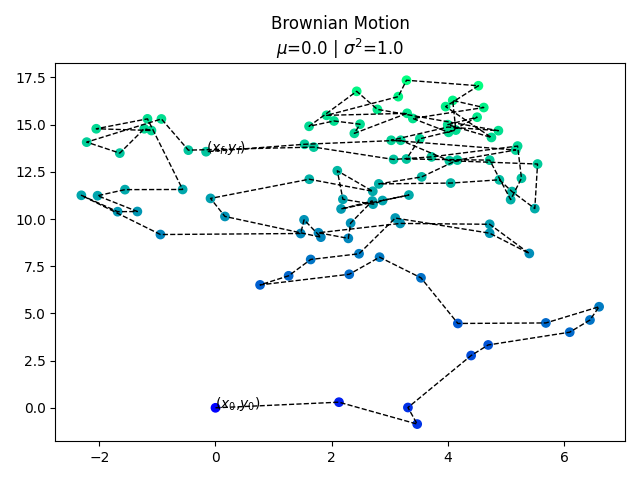
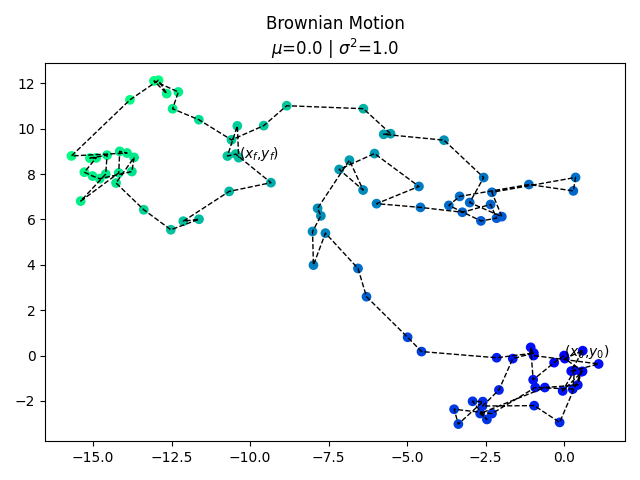
Update wiener.py

diff --git a/brownian/wiener.py b/brownian/wiener.py
@@ -18,10 +18,10 @@ def wiener_process(mu: float, sigma2: float, nb_iter: int, x0: float = 0.0, y0: 
     random_dsp = np.random.normal(loc=mu, scale=sigma2, size=(nb_iter - 1, 2))
 
     # Matrix containing the position of the particle at each step
-    p = np.zeros((nb_iter, 2))
-    p[0, :] = [x0, y0]
+    p = np.vstack(([x0, y0], random_dsp))
+
     # We do the cumulative sum to know how the position of the particle evolves
-    p[1:] = np.cumsum(p[1:] + random_dsp, axis=0, dtype=float)
+    p = np.cumsum(p, axis=0, dtype=float)
 
     return p
 
